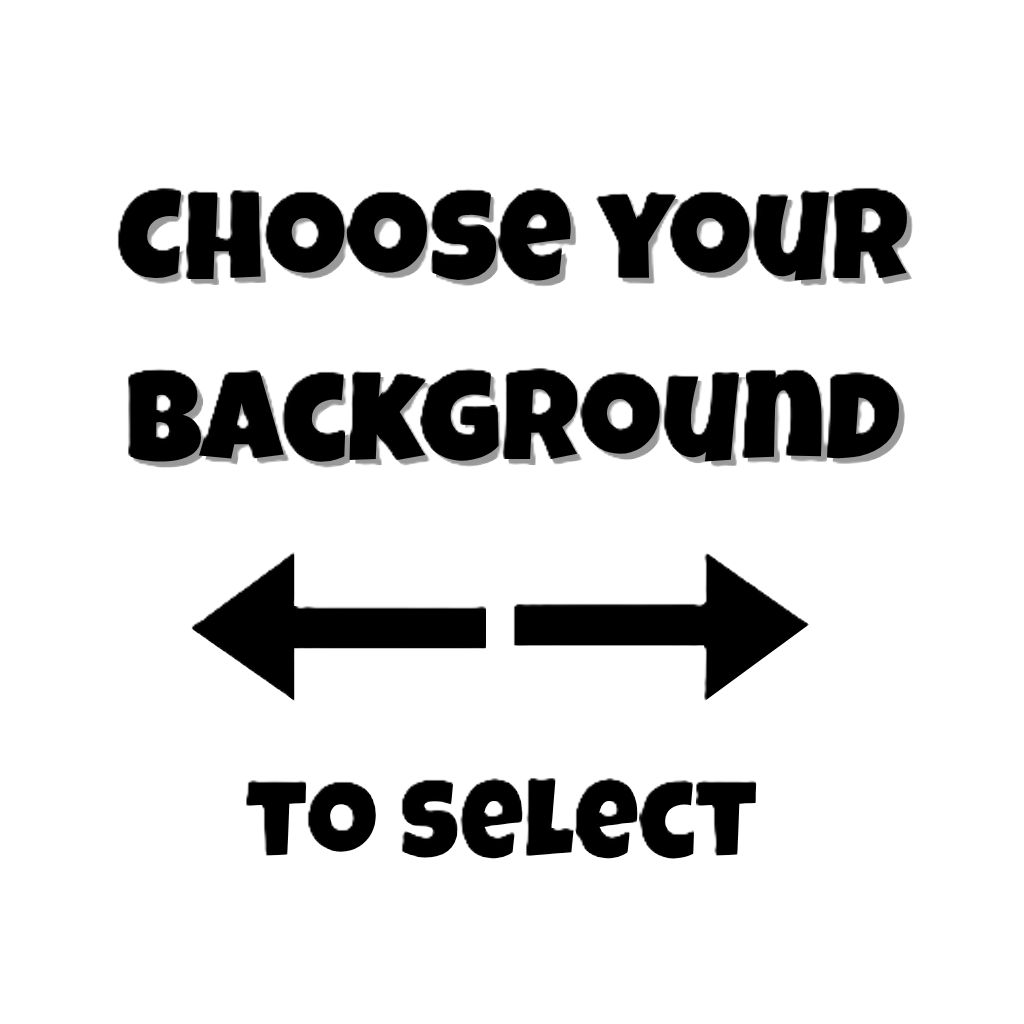
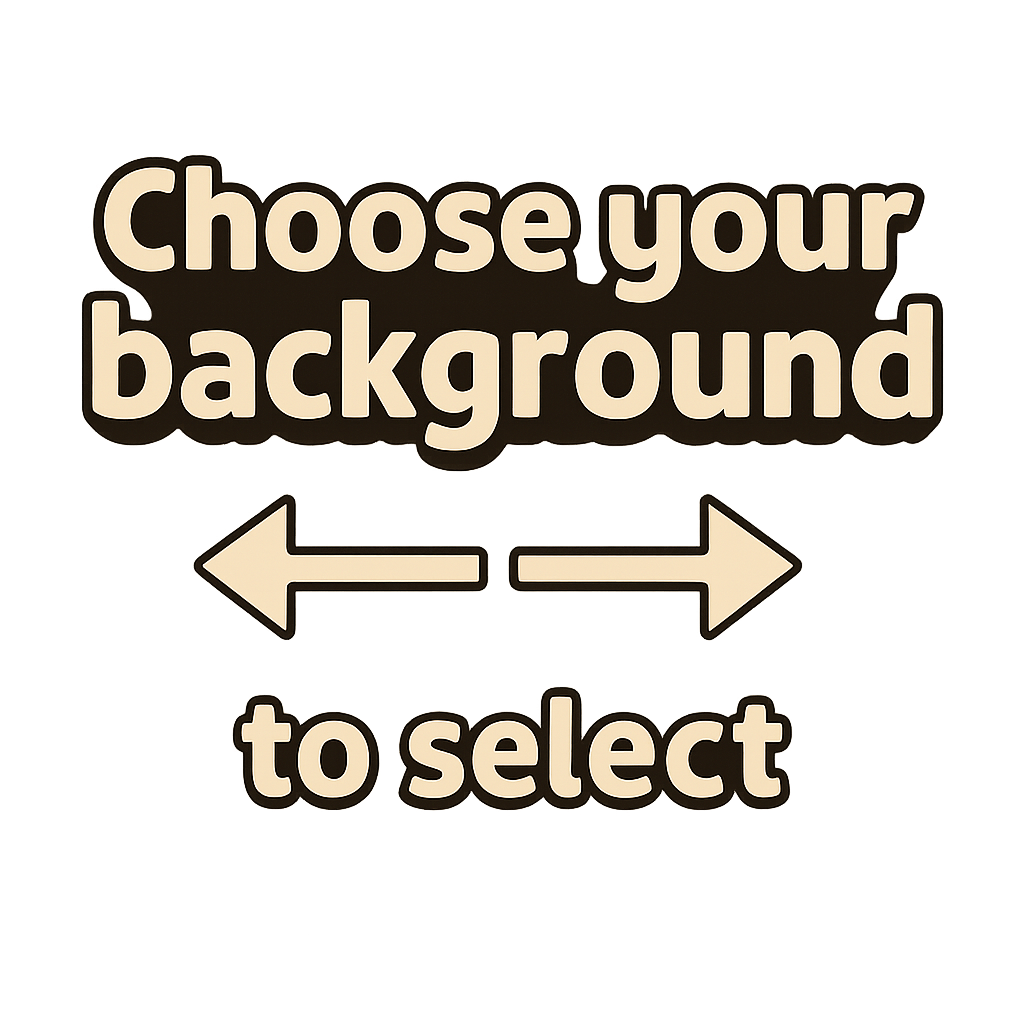
change image of title and sizes

diff --git a/main.cpp b/main.cpp
@@ -218,12 +218,13 @@ int main() {
             SDL_FRect bgRect = {0, 0, (float)SCREEN_WIDTH, (float)SCREEN_HEIGHT};
             SpriteID bgID = availableBackgrounds[selectionBG];
             SDL_RenderTexture(renderer, GetSpriteTexture(bgID), nullptr, &bgRect);
-            
+            float size = 500.0f;
+
             SDL_FRect titleDst = {
-                (float)(SCREEN_WIDTH / 2 - 350),  // center horizontally
-                320.0f,
-                700.0f,
-                300.0f
+                (float)(SCREEN_WIDTH / 2 - size / 2),  // center horizontally
+                250.0f,
+                size,
+                size
             };
             
             SDL_Texture* titleTexture = GetSpriteTexture(SPRITE_CHOOSE_BACKGROUND_TITLE);
